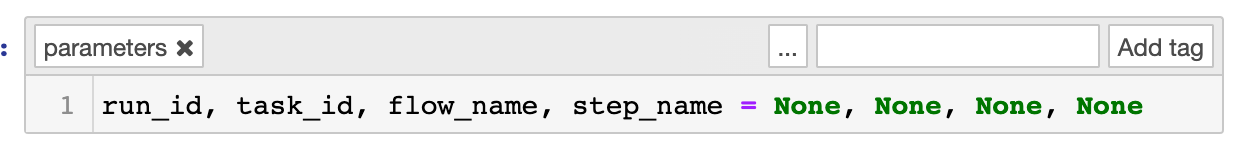
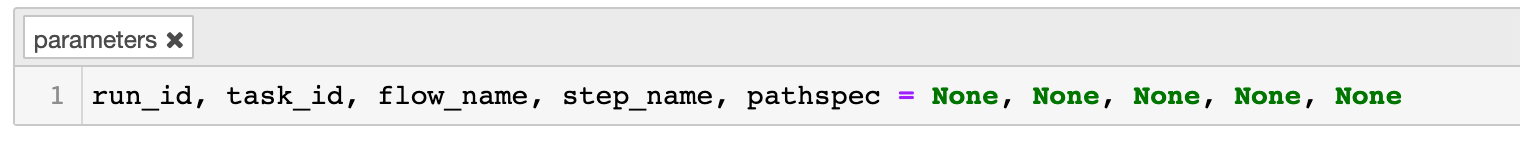
update README

Changed region(s): [[0.0, 0.027, 1.0, 0.8919]]

diff --git a/README.md b/README.md
@@ -80,6 +80,8 @@ For example of this, see [tests/nbflow.ipynb](tests/nbflow.ipynb):
 
 ![](images/nb_params.png)
 
+![](2022-02-07-19-52-50.png)
+
 > Note: in the example notebook thse variables are set to `None` however, you can set these variables to real values based on flows that have been previously executed for prototyping.
 
 
@@ -118,7 +120,7 @@ Furthermore, the `exclude_input` is an additional boolean argument that specifie
 
 Recall that the `run_id`, `step_name`, `task_id`, `flow_name` and `pathspec` are injected into the notebook.  We can access this in a notebook using [Metaflow's utlities for inspecting Flows and Results](https://docs.metaflow.org/metaflow/client).  We demonstrate this in [tests/nbflow.ipynb](tests/nbflow.ipynb):
 
-![](images/nb_prototype.png)
+![](2022-02-07-19-51-48.png)
 
 Some notes about this notebook:
 
